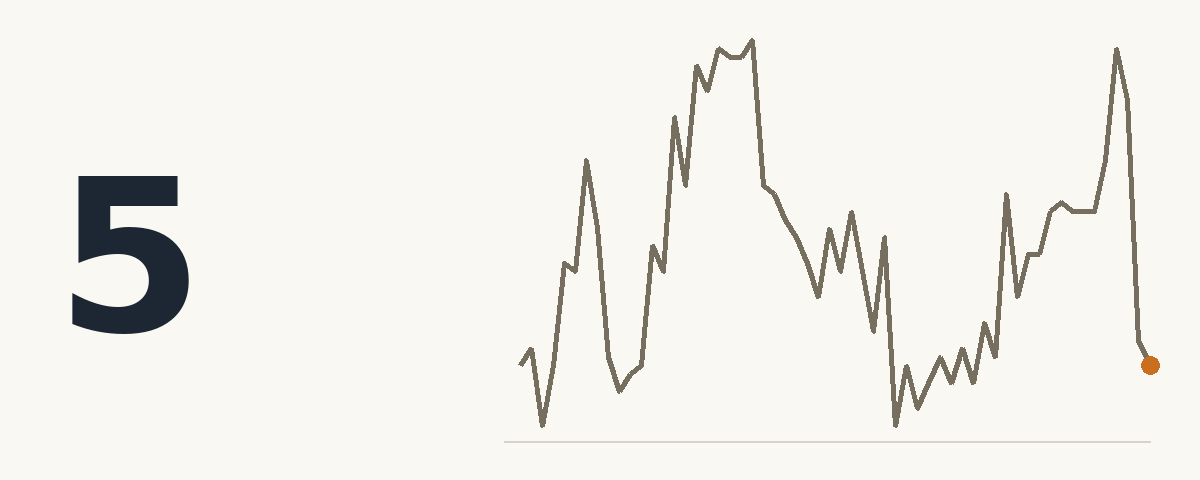
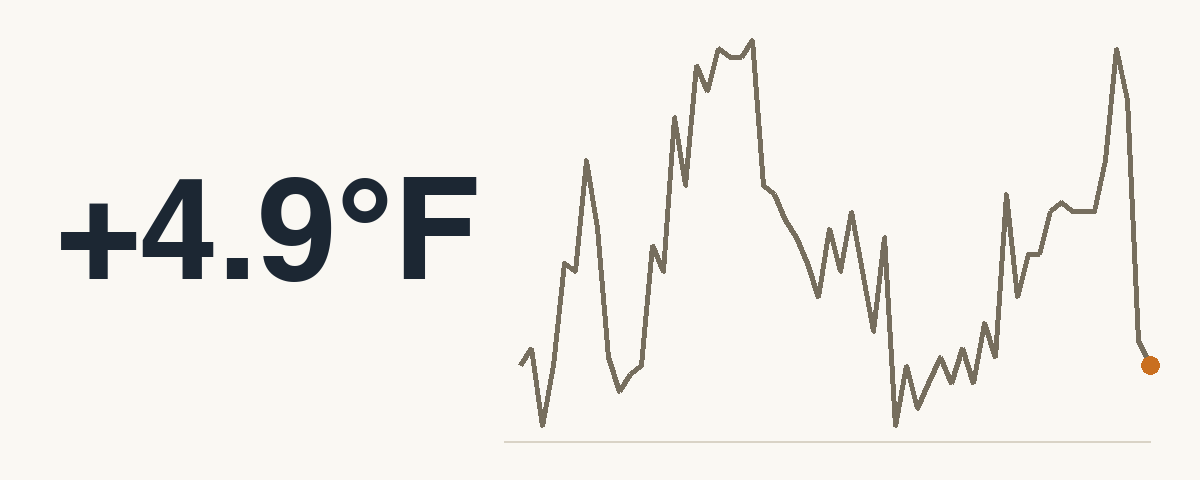
covers: print signed temperature anomalies instead of a bare rounded value

Changed region(s): [[0.0308, 0.3438, 0.4008, 0.7188]]

diff --git a/scripts/make_story_covers.py b/scripts/make_story_covers.py
@@ -10,6 +10,7 @@ from __future__ import annotations
 
 import json
 import pathlib
+import re
 
 from PIL import Image, ImageDraw, ImageFont
 
@@ -130,6 +131,10 @@ def thumb(card: dict) -> Image.Image | None:
         elif "rate" in top:  # mill-rate grammar: the rate is the figure
             val_txt = f"{top['rate']:.2f}"
             unit = " mills per $1,000"
+    elif (m := re.search(r"([+-]\d+(?:\.\d+)?)\s*(°[FC])", ans)):
+        # Signed anomaly in the answer: a bare "5" hides both direction
+        # and unit, so the cover prints the figure the sentence states.
+        val_txt = f"{m.group(1)}{m.group(2)}"
     elif "$" in ans:
         val_txt = f"${float(av.get('value', 0)):,.0f}"
     elif "%" in ans:
